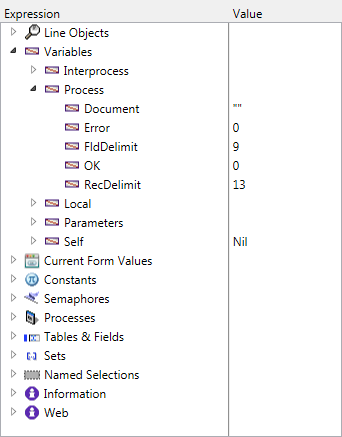
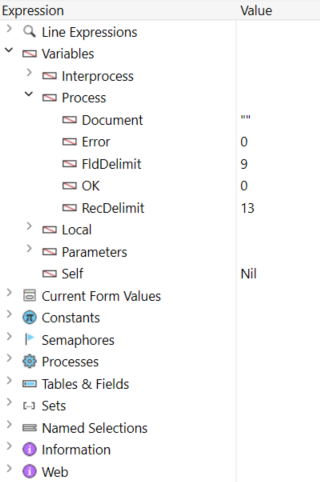
debugger final

Changed region(s): [[0.0, 0.0, 1.0, 1.0], [0.75, 0.238, 0.8125, 0.4462]]

diff --git a/docs/Debugging/debugger.md b/docs/Debugging/debugger.md
@@ -109,9 +109,9 @@ If you use this button to modify a method, the modifications are only effective 
 
 ## Saving configuration  
 
-The current configuration of the debugger window is automatically saved in the project. This includes:
+The configuration of the debugger window is automatically saved in the project. This includes:
 
-- expressions currently displayed in the custom watch pane expressions. By default, expressions are saved with the current method or function. You can also [pin an expression] to display it in all contexts. 
+- expressions currently displayed in the custom watch pane expressions. By default, expressions are saved with the current method or function. You can also [pin an expression](#pin-an-expression) to display it in all contexts. 
 - the size and position of the window,
 - the position of the division lines.
 
@@ -124,10 +124,6 @@ The **Default size settings** button restores the default position and size of t
 
 ![factory-settings-button](../assets/en/Debugging/debugger-factory.png)
 
-
-### Pin an expression
-
-![pinning-expression](../assets/en/Debugging/pin-expression.png)
 
 ## Watch Pane
 
@@ -145,9 +141,9 @@ At any point, you can drag and drop themes, theme sublists (if any), and theme i
 
 ### Expression list
 
-#### Line Objects
+#### Line Expressions
 
-This theme lets you keep track of the values of the objects or expressions:
+This theme lets you keep track of the values of expressions:
 
 * used in the line of code to be executed (the one marked with the program counter—the yellow arrow in the [Source Code Pane](#source-code-pane)),
 * used in the previous line of code
@@ -305,8 +301,9 @@ You can also use the [Call chain](https://doc.4d.com/4dv19/help/command/en/page1
 
 The Custom Watch Pane is useful for evaluating expressions. It is similar to the [Watch Pane](#watch-pane), except here you decide which expressions are displayed. Any type of expression can be evaluated:
 
-* field
 * variable
+* object and object property
+* field
 * pointer
 * calculation
 * 4D command
@@ -315,15 +312,38 @@ The Custom Watch Pane is useful for evaluating expressions. It is similar to the
 
 ![custom-Watch-pane](../assets/en/Debugging/custom-watch-pane.png)
 
-You can evaluate any expression that can be shown in text form. This does not cover picture and BLOB fields or variables. To display BLOB contents, you can use BLOB commands, such as [BLOB to text](https://doc.4d.com/4dv19/help/command/en/page555.html).
+You can evaluate any expression that can be shown in text form. This does not cover picture and BLOB fields or variables. To display BLOB contents, you can use BLOB commands, such as [BLOB to text](../commands-legacy/blob-to-text.md).
+
+### Display mode
+
+You select the display mode to be used for all debugger windows using the **Display** option of the Custom Watch pane's [contextual menu](#contextual-menu). 
+
+![custom-Watch-pane](../assets/en/Debugging/custom-watch-pane-display-menu.png)
+
+The following options are available:
+
+- **Local variables**: Displays and evaluates automatically local variables as soon as they are used in the source code. 
+- **Line Expressions**: Displays and evaluates automatically the same contents as the [Line Expressions](#line-expressions) item of the Expression List. 
+- **Expressions**: Only displays custom expressions that you have entered manually. Custom expressions have a specific blue icon ![custom-expression-icon](../assets/en/Debugging/custom-expression-icon.png).
+
+:::note
+
+Whatever the display mode, you can add custom expressions at any moment. 
+
+:::
+
 
 ### Handling expressions
+
+You can enter any expression to evaluate. A custom expression is only displayed in the current debugger window, except if you [pin it](#pin-an-expression). 
 
 There are several ways to add expressions to the list:
 
 * Drag and drop an object or expression from the Watch Pane or the Call Chain Pane
 * Select an expression in the [Source Code pane](#source-code-pane) and press **ctrl+D**  (Windows) or **cmd+D** (macOS)
 * Double-click somewhere in the empty space of the Custom Watch Pane (adds an expression with a placeholder name that you can edit)
+* Select a [display option](#display-mode) that automatically inserts expressions. 
+* Select [**New Expression...**] in the Custom Watch pane's [contextual menu](#contextual-menu) to add an expression using the **Formula Editor**.  
 
 You can enter any formula that returns a result.
 
@@ -331,23 +351,34 @@ To edit an expression, click on it to select it, then click again or press **Ent
 
 To delete an expression, click on it to select it, then press **Backspace** or **Delete** on your keyboard.
 
->**Warning:** Be careful when you evaluate a 4D expression modifying the value of one of the System Variables (for instance, the OK variable) because the execution of the rest of the method may be altered.
+:::warning
+
+Be careful when you evaluate a 4D expression modifying the value of one of the System Variables (for instance, the OK variable) because the execution of the rest of the method may be altered.
+
+:::
+
+### Pin an expression
+
+You can click on the pushpin icon to pin an expression. 
+
+![pinning-expression](../assets/en/Debugging/pin-expression.png)
+
+It will then be displayed in every debugger window. 
 
 ### Contextual Menu
 
-The Custom Watch Pane’s context menu gives you access the 4D formula editor and other options:
+The Custom Watch Pane’s menu is available on a contextual click or using the ![menu](../assets/en/Debugging/custom-watch-pane-menu.png) icon:
 
 ![custom-watch-pane-context-menu](../assets/en/Debugging/custom-watch-pane-context-menu.png)
 
-**New Expression**: This inserts a new expression and displays the 4D Formula Editor.
-
+- **Display**: Selects the [display mode](#display-mode) to be used for all debugger windows.
+- **New Expression...**: Inserts a new expression and displays the 4D Formula Editor.
 ![custom-Watch-pane-context-menu](../assets/en/Debugging/custom-watch-pane-formula-editor.png)
+For more information on the Formula Editor, see the [4D Design Reference manual](https://doc.4d.com/4Dv20/4D/20.2/Description-of-formula-editor.300-6750169.en.html).
 
-For more information on the Formula Editor, see the [4D Design Reference manual](https://doc.4d.com/4Dv19/4D/19/4D-Design-Reference.100-5416591.en.html).
-
-* **Insert Command**: Shortcut for inserting a 4D command as a new expression.
+* **Insert Command... **: Displays a menu allowing to insert a 4D command as a new expression.
 * **Delete All**: Removes all expressions from the Custom Watch Pane.
-* **Standard Expressions**: Copies the Watch Pane's list of expressions.
+* **Standard Expressions**: Copies the Watch Pane's list of expressions as custom expressions.
 
 > This option is not available in [remote debugging mode](debugging-remote.md).
 
@@ -357,6 +388,7 @@ For more information on the Formula Editor, see the [4D Design Reference manual]
 * **Show Icons**: Displays an icon denoting the type of each item.
 * **Sorted Tables and Fields**: Displays the table and fields in alphabetical order.
 * **Show Integers in Hexadecimal**: Displays numbers using hexadecimal notation. To enter a numeric value in hexadecimal, type 0x (zero + "x"), followed by the hexadecimal digits.
+
 
 ## Source Code Pane
 
